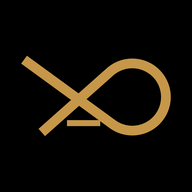
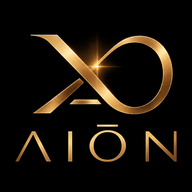
Troca o ícone pela marca completa em metal
A versão anterior usava só o símbolo, que é quase duas vezes mais largo
que alto. Num quadrado isso sempre sobra faixa preta em cima e embaixo, e
a marca fica pequena no meio do vazio.

Esta arte tem proporção 1,217 e enche o ícone. O halo escuro em volta do
símbolo, que sobre branco pareceria sujeira, sobre o preto do app vira o
brilho que a arte pretendia. Nenhuma cor alterada.

A marca vai versionada em assets/marca-png/, e o MARCA.md explica por que
a proporção é o que decide, para a próxima troca não repetir o problema.

Claude-Session: https://claude.ai/code/session_01AMuUgMCAJMA7TuD2iWiTxo

Changed region(s): [[0.0625, 0.1562, 0.9375, 0.8438]]

diff --git a/assets/MARCA.md b/assets/MARCA.md
@@ -4,37 +4,45 @@ De onde vem o ícone que fica na tela inicial do celular.
 
 ## Origem
 
-`Chronos X Aiōn_ Manual de identidade.zip`, nesta mesma pasta, arquivo
-`png/aion-simbolo-dourado.png` — o símbolo isolado, dourado, sobre fundo
-transparente (2400 × 1402, sobrando 2196 × 1181 depois de aparar a
-margem vazia).
+`marca-png/AION-marca-original-transparente.png`, nesta mesma pasta — a
+marca completa em metal dourado, sobre fundo transparente. 866 × 677, e
+819 × 673 depois de aparar a margem vazia, o que dá a proporção **1,217**.
 
-Só o símbolo. A assinatura completa traz `AIŌN` e `A VIDA PELOS OLHOS DE
-DEUS` embaixo, e num ícone de 12 mm de lado essas duas linhas viram
-mancha. O nome aparece de outro jeito: o próprio sistema o escreve
-embaixo do ícone, a partir do `short_name` do manifesto.
+Essa proporção é o motivo de ser esta arte e não outra. Uma marca larga
+demais nunca enche um quadrado: sobra faixa vazia em cima e embaixo, e o
+desenho parece pequeno. A 1,217 a marca ocupa o ícone inteiro.
 
-Nenhuma cor foi alterada. O símbolo é composto por cima do preto do app
-(`#000000`), que é também o `background_color` do manifesto.
+A arte tem um halo escuro em volta do símbolo. Sobre branco pareceria
+sujeira; sobre o preto do app (`#000000`, o mesmo `background_color` do
+manifesto) ele vira o brilho que a arte pretendia. Nenhuma cor foi
+alterada — a marca é composta por cima do preto, e mais nada.
+
+O `Chronos X Aiōn_ Manual de identidade.zip` continua aqui como
+referência da marca, mas não é ele que gera o ícone.
 
 ## Tamanhos
 
-| Arquivo | Lado | Símbolo | Para quê |
+| Arquivo | Lado | Marca | Para quê |
 |---|---|---|---|
-| `public/icone-192.png` | 192 | 78% da largura | Android |
-| `public/icone-512.png` | 512 | 78% | Android, tela de abertura |
-| `public/icone-maskable-512.png` | 512 | **62%** | Android, quando o sistema recorta |
-| `public/apple-touch-icon.png` | 180 | 78% | iPhone e iPad |
-| `public/favicon-32.png` | 32 | 78% | aba do navegador |
+| `public/icone-192.png` | 192 | 84% da largura | Android |
+| `public/icone-512.png` | 512 | 84% | Android, tela de abertura |
+| `public/icone-maskable-512.png` | 512 | **60%** | Android, quando o sistema recorta |
+| `public/apple-touch-icon.png` | 180 | 84% | iPhone e iPad |
+| `public/favicon-32.png` | 32 | 84% | aba do navegador |
 
 O `maskable` é menor de propósito. O Android recorta o ícone na forma que
-o aparelho usa — círculo, quadrado arredondado, gota — e só garante o
-que estiver dentro de um círculo central com 80% do lado. O símbolo é
-largo (1,86 : 1); pela diagonal, o limite para caber nesse círculo é 70%
-da largura. 62% deixa a folga.
+o aparelho usa — círculo, quadrado arredondado, gota — e só garante o que
+estiver dentro de um círculo central com 80% do lado. Pela diagonal, uma
+marca de proporção 1,217 só cabe nesse círculo até 61,8% da largura; 60%
+deixa a folga. Sem essa versão, num aparelho que recorta em círculo as
+pontas do X e as extremidades do A e do N sairiam.
 
 ## Para trocar por outra arte
 
 Substitua os cinco arquivos de `public/`. Mantenha os nomes — eles estão
 escritos em `public/manifest.webmanifest`, em `index.html` e no cartão de
-instalação. O script que gerou estes está no histórico deste commit.
+instalação (`src/components/ConviteInstalar.tsx`). O script que gerou
+estes está no histórico deste commit.
+
+Se a arte nova for bem mais larga que alta, reduza o número da marca e
+espere faixa preta em cima e embaixo: é geometria, não ajuste.
